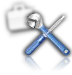
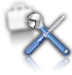
builder

Changed region(s): [[0.1389, 0.4, 0.5, 0.5867]]

diff --git a/WebContent/css/layout.css b/WebContent/css/layout.css
@@ -130,7 +130,7 @@ li.js_content:hover .checkOption {display:block}
 .personal_info li {float:left; vertical-align:bottom; margin-right:6px; color:#dddddd; line-height: 1.3em; } 
 .personal_info .pic {background: url("../images/pic_personal_info.jpg"); display:inline; width:66px; height:66px; position:relative;}
 .personal_info .setting {background: url("../images/nav_setting.png"); display:inline; width:66px; height:66px; position:relative;}
-.personal_info .builder {background: url("../images/nav_setting.png"); display:inline; width:72px; height:75px; position:relative;}
+.personal_info .builder {background: url("../images/nav_builder.png"); display:inline; width:72px; height:75px; position:relative;}
 
 /* nav_list*/
 .nav_list {width:226px;}

diff --git a/WebContent/css/default.css b/WebContent/css/default.css
@@ -147,7 +147,7 @@ mark, rp, rt, ruby, summary, time {
 }
 
 .float_left {float:left}
-/*.float_left_nowidth{float:left;}*/
+.float_left_nowidth {float:left;}
 .float_right {float:right;}
 .clear {display:block; clear:both;}
 
